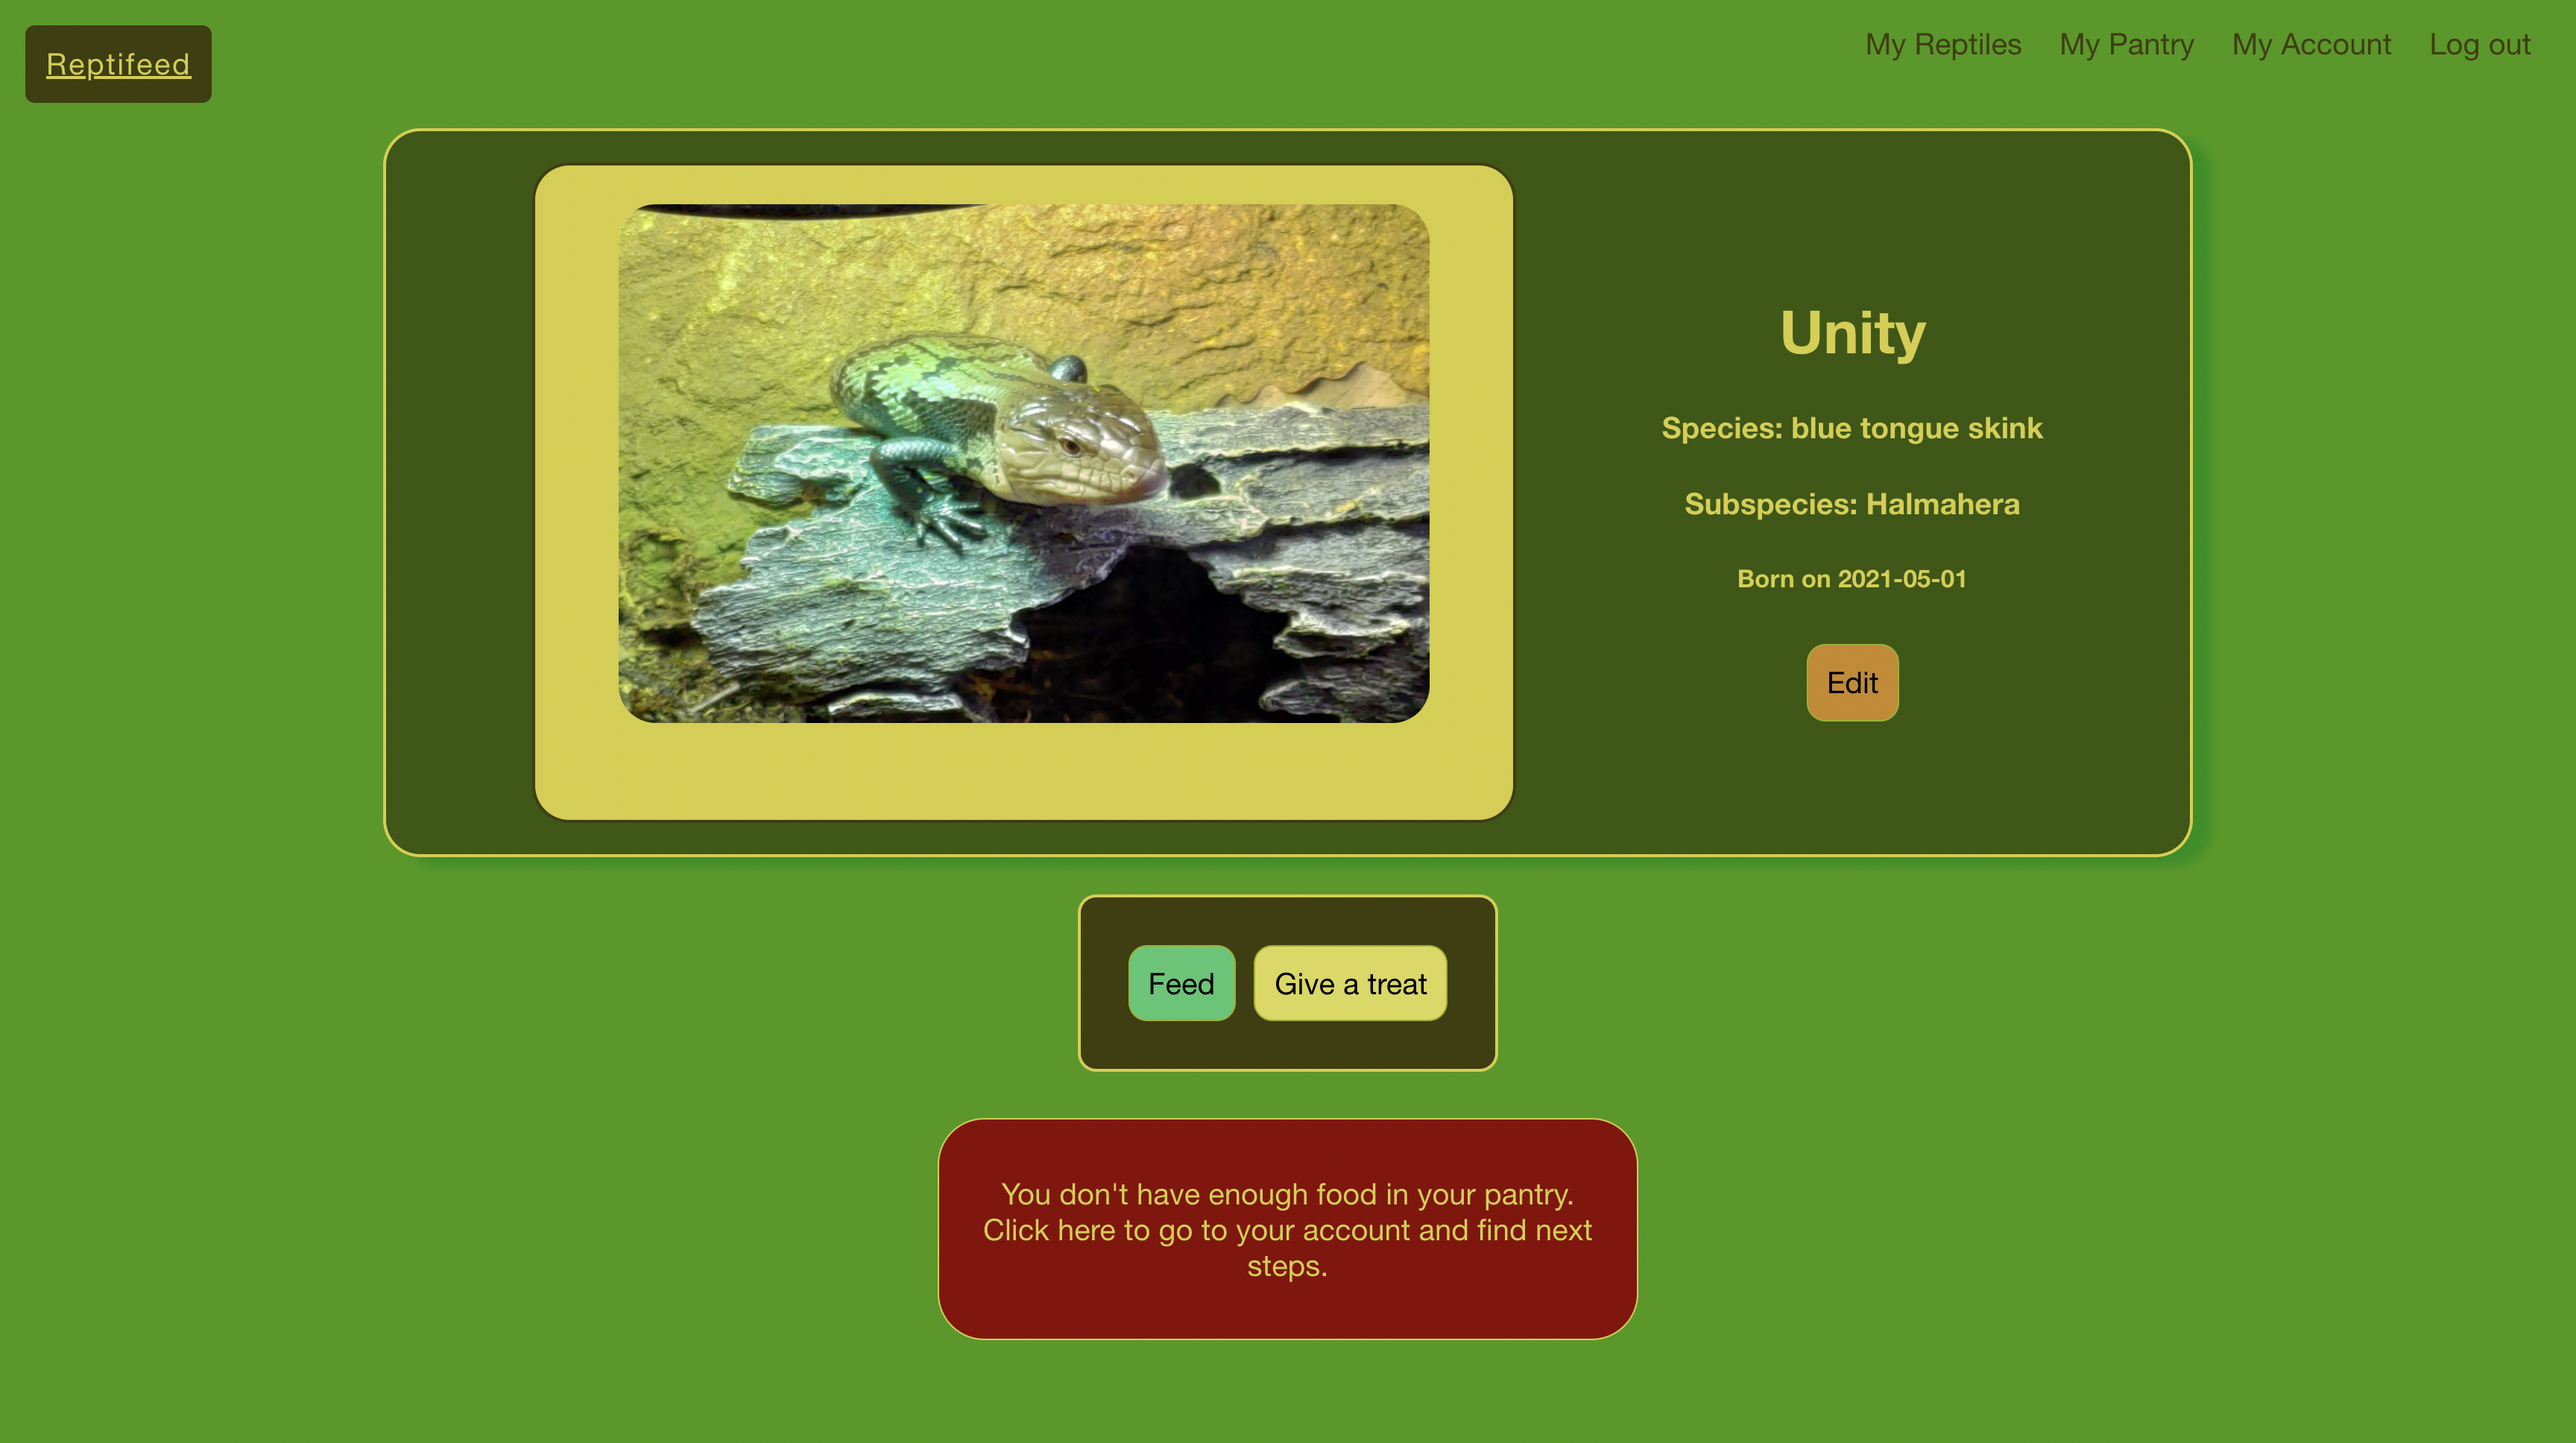
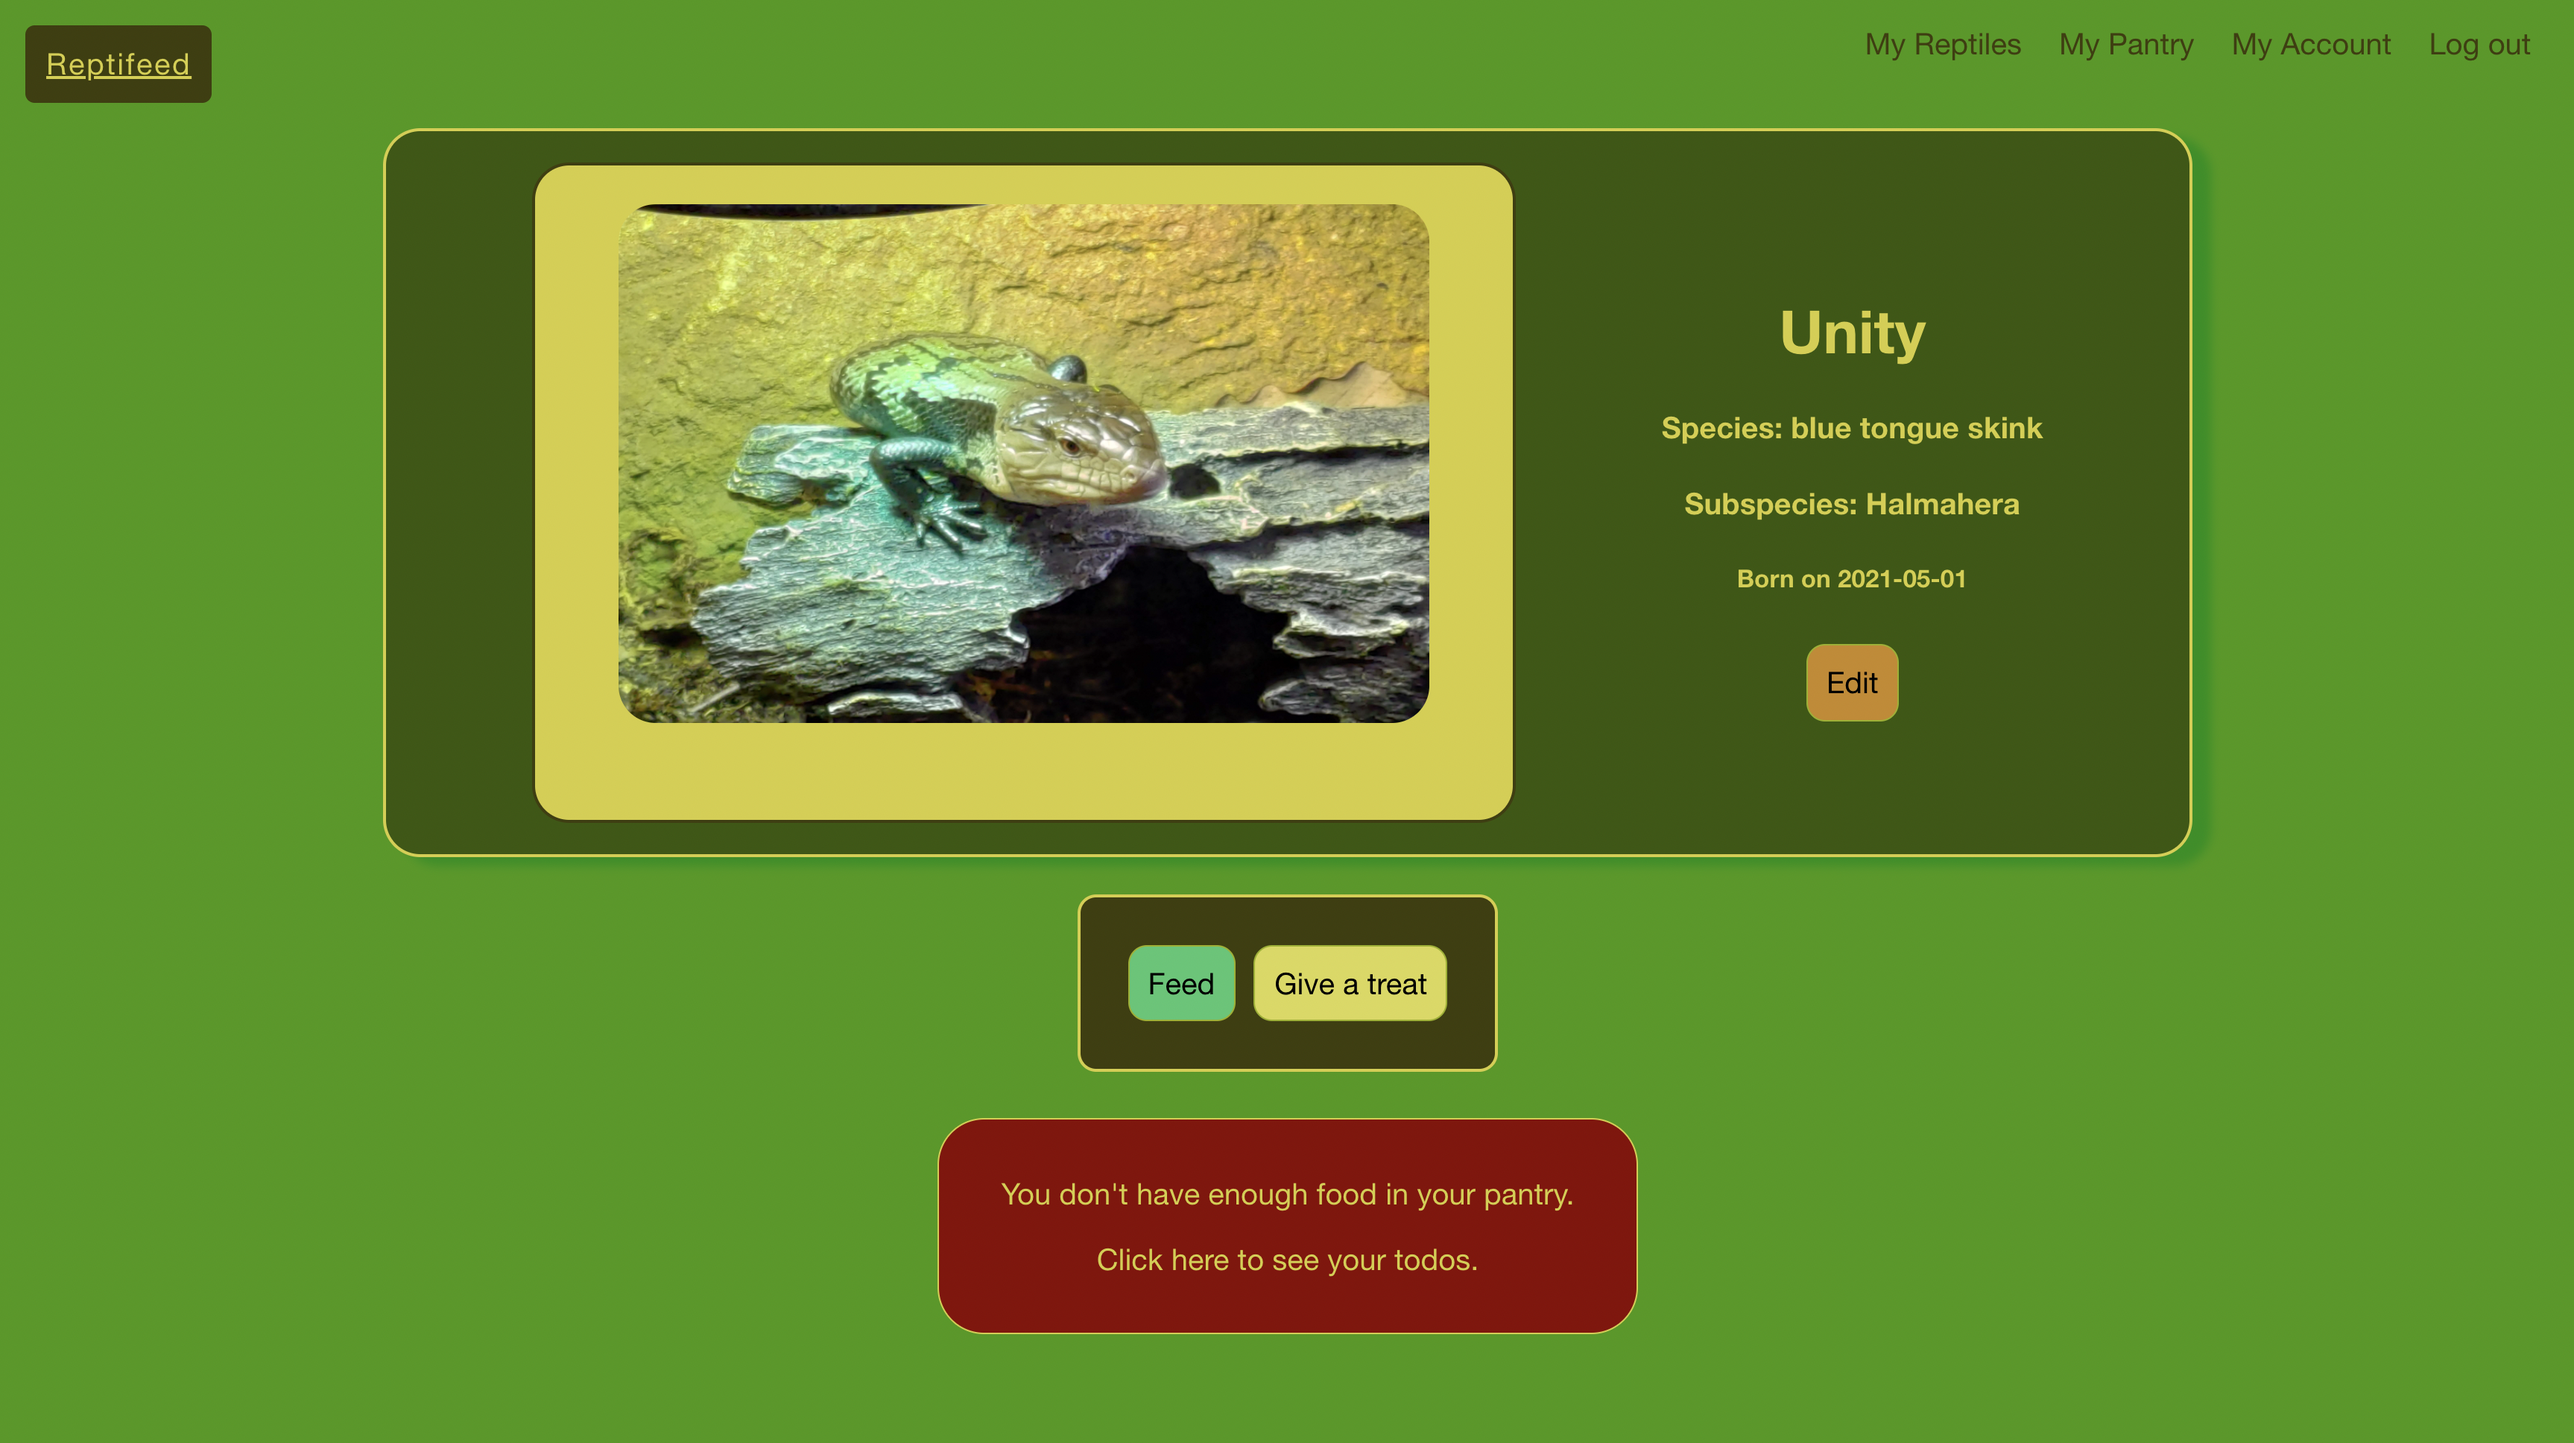
updated README

diff --git a/README.md b/README.md
@@ -84,7 +84,7 @@ Routes on the backend are divided into five sections:
 
 **Admin only
 
-### User flow:
+### Sample User flow:
 
 Log in or register...
 
@@ -94,7 +94,7 @@ Log in or register...
 
 ![Profile page for testuser](frontend/user-flow-pictures/profile-todos.png)
 
-Things to do to set up! Let's start with adding a reptile!
+Things to do to set up! Let's start with adding a reptile! (hint: Clicking on the todo brings you where you need to go)
 
 ![Todo list](frontend/user-flow-pictures/todos.png)
 
@@ -106,9 +106,51 @@ Success! Can we feed her yet?
 
 ![Added reptile](frontend/user-flow-pictures/reptile.png)
 
-Nope! We need to get some food. Off to the todos!
+Bummer! We need to get some food. Off to the todos!
 
 ![No food!](frontend/user-flow-pictures/reptile-no-food.png)
+
+Well, the todo list is shorter! Let's go add some food!
+
+![Todo list](frontend/user-flow-pictures/todos-9-items.png)
+
+We're on the food page! You can get food by type or species, search for food, and even filter treats
+
+![Food page](frontend/user-flow-pictures/food-page.png)
+
+After searching through my real pantry, I found that I have arugula, dog food, mangoes, and calcium and multivitamin supplements and checked them off.
+
+This is what my pantry looks like now:
+
+![Pantry](frontend/user-flow-pictures/pantry.png)
+
+NOOWWWW we can feed her!
+
+![Feeding time](frontend/user-flow-pictures/feed.png)
+
+We can also feed treats!
+
+![Treat time](frontend/user-flow-pictures/feed-treat.png)
+
+You might be reminded to add more food to your pantry.
+
+![Prompt to get more food!](frontend/user-flow-pictures/need-more.png)
+
+Clicking the alert takes you to the todo page. Let's see what we have!
+
+![Todos with only nice to haves](frontend/user-flow-pictures/nice-to-haves-only.png)
+
+Back to the food page!
+
+![Food page](frontend/user-flow-pictures/food-page.png)
+
+I found some beef, mealworms, bok choy, basil, and carrots. They're now in my pantry.
+
+![Updated pantry](frontend/user-flow-pictures/pantry-update.png)
+
+Now I have a varied diet for Unity. Look how happy she is!
+
+![A picture of Unity](frontend/user-flow-pictures/happy-unity.png)
 
 ### Tech stack:
 
@@ -195,8 +237,10 @@ VALUES ...
 4. Go into `reptifeed-api.sql` and add the following for both `reptifeed` AND `reptifeed_test` databases
 
 ```
+DROP TABLE blue_tongue_skink_diet;
+DROP TABLE (new table)
 \i reptifeed-skink-diet.sql
-\i // YOUR NEW FILE
+\i (new file)
 ```
 
 5. Reactvate API with `psql -f reptifeed-api.sql`
